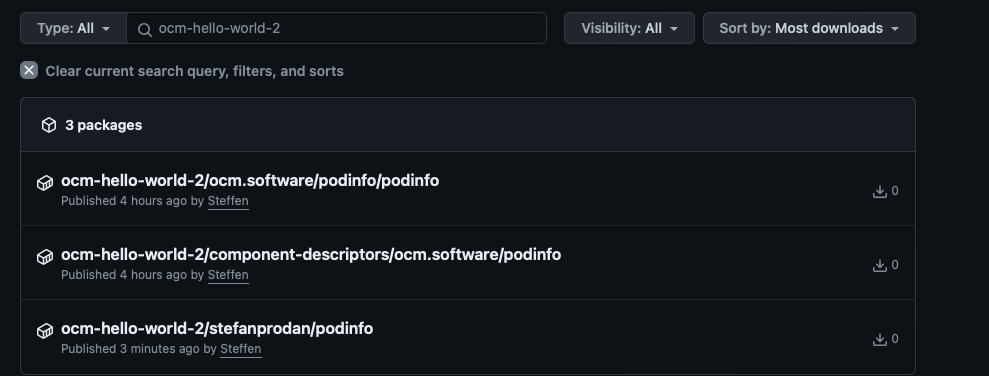
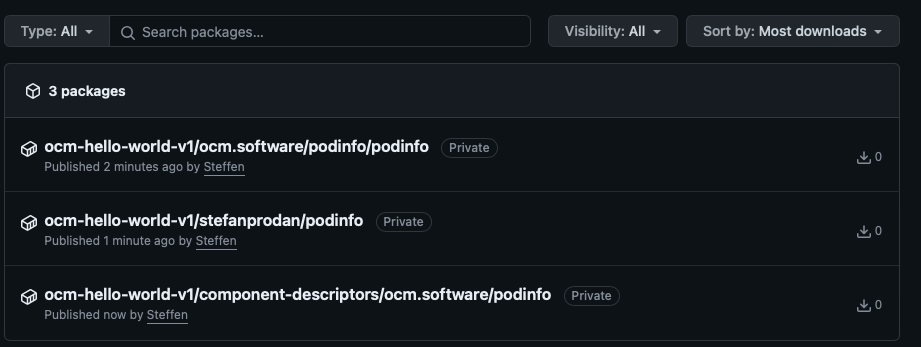
update Build & Deploy Infrastructure via Helm Charts with OCM

diff --git a/content/en/docs/guides/build-deploy-software-via-helm-charts-with-ocm-101.md b/content/en/docs/guides/build-deploy-software-via-helm-charts-with-ocm-101.md
@@ -18,7 +18,7 @@ toc: true
 
 Let's illustrate an simple "Hello World" application and show how to leverage OCM to build and deploy a Helm Chart and OCI Image on a local `kind` k8s cluster.
 As base we use the `podinfo` application. 
-All files can be found [here](https://github.com/stb1337/ocm-hello-world).
+All files can be found [here](https://github.com/stb1337/ocm-hello-world-v1).
 
 At the end of the tutorial this application consists of the following components:
 * `podinfo` as our business application
@@ -53,7 +53,8 @@ Reference a Helm Chart from:
 2. local `*.tgz` file
 3. local folder which containing Helm Chart files
 
-First we need to download and unpack the Helm Chart for `podinfo`.
+To demonstrate No. 2+3 we first we need to download and unpack the Helm Chart for `podinfo`. In a real application, this would be your own Helm Charts.
+
 This can easily be achieved with the helm CLI:
 
 ```shell
@@ -75,41 +76,47 @@ tar -czf podinfo-6.6.0.tgz podinfo
 
 ### Input Specification
 
-The corresponding input file for building the component version (`component-constructor.yaml`) will then look like this:
+The corresponding input file for building the component version ([`component-constructor.yaml`](https://github.com/stb1337/ocm-hello-world-v1/blob/main/component-constructor.yaml)) will then look like this:
 
 ```yaml
 components:
+# podinfo component
 - name: ${COMPONENT_NAME_PREFIX}/podinfo
+  labels:
+  - name: "org.opencontainers.image.source"
+    value: "https://github.com/stb1337/ocm-hello-world-v1"  
   version: ${PODINFO_VERSION}
   provider:
     name: ${PROVIDER}
   resources:
   - name: helm-chart-external
-    type: helmChart    
+    type: helmChart
+    version: ${PODINFO_VERSION}
     relation: external
     access:
       type: helm
       helmChart: podinfo:${PODINFO_CHART_VERSION}
       helmRepository: https://stefanprodan.github.io/podinfo
   - name: helm-chart-local-tgz
-    type: helmChart
-    relation: local    
+    type: helmChart    
     input:      
-      type: helm
-      path: podinfo-${PODINFO_CHART_VERSION}.tgz
+      type: helm      
+      path: podinfo-${PODINFO_CHART_VERSION}.tgz      
   - name: helm-chart-local-folder
     type: helmChart
-    relation: local    
-    input:   
+    relation: local
+    version: ${PODINFO_VERSION}
+    input:
       type: dir
-      path: ./podinfo/ 
+      path: ./podinfo/  
   - name: image
     type: ociImage
     version: ${PODINFO_VERSION}
     access:
       type: ociArtifact
       repository: ocm/ocm.software/podinfo/image
-      imageReference: ghcr.io/stefanprodan/podinfo:${PODINFO_VERSION}  
+      imageReference: ghcr.io/stefanprodan/podinfo:${PODINFO_VERSION}
+  
 ```
 
 Some frequently changing parameters have been extracted as variables. The OCM CLI uses
@@ -124,11 +131,11 @@ Note the differences between the various components:
 From the input file `component-constructor.yaml` the common transport archive can be created with the
 OCM CLI. For all variables we need to provide values. Variable values can be passed in the
 command line or stored in a file. For many variable having a values file is more convenient.
-The corresponding file `settings.yaml` may look like this:
+The corresponding file [`settings.yaml`](https://github.com/stb1337/ocm-hello-world-v1/blob/main/settings.yaml) may look like this:
 
 ```yaml
 VERSION: 0.0.1
-NAME: ocm-hello-world
+NAME: ocm-hello-world-v1
 COMPONENT_NAME_PREFIX: ocm.software
 PROVIDER: stb1337
 PODINFO_VERSION: 6.6.0
@@ -174,15 +181,17 @@ ocm transfer ctf -f <ctf-target-dir> <oci-repo-url>
 ```
 
 ```shell
-ocm transfer commontransportarchive --copy-resources --enforce --overwrite ./ocm-hello-world OCIRegistry::ghcr.io/stb1337/ocm-hello-world-2
+ocm transfer commontransportarchive --copy-resources --enforce --overwrite ./ocm-hello-world OCIRegistry::ghcr.io/stb1337/ocm-hello-world-v1
 transferring component "ocm.software/podinfo"...
   transferring version "ocm.software/podinfo:6.6.0"...
-    version "ocm.software/podinfo:6.6.0" already present -> but requires resource transport
-  ...resource 0 helm-chart-external[helmChart] (copy)
-  ...resource 1 helm-chart-local-tgz[helmChart](ocm.software/podinfo/podinfo:6.6.0) (already present)
-  ...resource 2 helm-chart-local-folder[helmChart] (already present)  
-  ...resource 3 image[ociImage](stefanprodan/podinfo:6.6.0) (copy)
+INFO[0000] trying next host - response was http.StatusNotFound  host=ghcr.io
+INFO[0001] trying next host - response was http.StatusNotFound  host=ghcr.io
+  ...resource 0 helm-chart-external[helmChart]...
+  ...resource 1 helm-chart-local-tgz[helmChart](ocm.software/podinfo/podinfo:6.6.0)...
+  ...resource 2 helm-chart-local-folder[helmChart]...  
+  ...resource 3 image[ociImage](stefanprodan/podinfo:6.6.0)...
   ...adding component version...
+
 ```
 
 Note: Be careful with the `-f` or `--overwrite` flag. This will replace existing component
@@ -192,8 +201,8 @@ you should never use this flag**! Released component versions should be immutabl
 should never be overwritten. They serve as source of truth for what the release is made of
 und should never be changed.
 
-### Package Visibility 
-Change Github Package Visibility to 'public':
+### Package 
+Navigate to the overview of your OCI repository, which should list following items:
 
 ![alt text](images/github-packages-ocm-hello-world.png)
 ## Deploying OCM Software Artifact
@@ -315,12 +324,12 @@ ComponentVersion:
 name: `ocm.software/podinfo`
 version: `6.6.0`
 
-URL of OCI registry: `ghcr.io/stb1337/ocm-hello-world-2`
+URL of OCI registry: `ghcr.io/stb1337/ocm-hello-world-v1`
 
 It is convenient to put this into an environment variable:
 
 ```shell
-export OCM_REPO=ghcr.io/stb1337/ocm-hello-world-2
+export OCM_REPO=ghcr.io/stb1337/ocm-hello-world-v1
 ```
 
 Getting all component-versions of the application with the ocm cli:
@@ -333,20 +342,22 @@ ocm get componentversion --repo OCIRegistry::${OCM_REPO} ocm.software/podinfo:6.
 ---
 component:
   componentReferences: []
-  creationTime: "2024-03-20T09:22:20Z"
+  creationTime: "2024-03-21T15:55:18Z"
   labels:
+  - name: org.opencontainers.image.source
+    value: https://github.com/stb1337/ocm-hello-world-v1
   name: ocm.software/podinfo
   provider: stb1337
   repositoryContexts:
   - baseUrl: ghcr.io
     componentNameMapping: urlPath
-    subPath: stb1337/ocm-hello-world-2
+    subPath: stb1337/ocm-hello-world-v1
     type: OCIRegistry
   resources:
   - access:
-      helmChart: podinfo:6.6.0
-      helmRepository: https://stefanprodan.github.io/podinfo
-      type: helm
+      localReference: sha256:cf9318c4944f733f8ce925ca0b818cdae638dce4107a13c3395984bb86306c4b
+      mediaType: application/vnd.cncf.helm.chart.content.v1.tar+gzip
+      type: localBlob
     digest:
       hashAlgorithm: SHA-256
       normalisationAlgorithm: genericBlobDigest/v1
@@ -356,7 +367,7 @@ component:
     type: helmChart
     version: 6.6.0
   - access:
-      imageReference: ghcr.io/stb1337/ocm-hello-world-2/ocm.software/podinfo/podinfo:6.6.0
+      imageReference: ghcr.io/stb1337/ocm-hello-world-v1/ocm.software/podinfo/podinfo:6.6.0
       type: ociArtifact
     digest:
       hashAlgorithm: SHA-256
@@ -367,32 +378,31 @@ component:
     type: helmChart
     version: 6.6.0
   - access:
-      localReference: sha256:96a7336a44369d0da90e3c3813d7fd3e3a2745283e99dd9187040ac9d849b194
+      localReference: sha256:8ff0604bfaebe6791ac4285c38a9f02771452497530367eeae49f1cf8594ca4c
       mediaType: application/x-tar
       type: localBlob
     digest:
       hashAlgorithm: SHA-256
       normalisationAlgorithm: genericBlobDigest/v1
-      value: 96a7336a44369d0da90e3c3813d7fd3e3a2745283e99dd9187040ac9d849b194
+      value: 8ff0604bfaebe6791ac4285c38a9f02771452497530367eeae49f1cf8594ca4c
     name: helm-chart-local-folder
     relation: local
     type: helmChart
     version: 6.6.0
   - access:
-      localReference: sha256:1e1f0bea2618c9a7f50c459828cf5aa66b5592c7ce9715be436cbaf70b31f17b
+      localReference: sha256:4a05cbc915a171301efdaad863d7d1bb0bc9193730767eca9385c49361956863
       mediaType: application/x-tgz
       type: localBlob
     digest:
       hashAlgorithm: SHA-256
       normalisationAlgorithm: genericBlobDigest/v1
-      value: 1e1f0bea2618c9a7f50c459828cf5aa66b5592c7ce9715be436cbaf70b31f17b
+      value: 4a05cbc915a171301efdaad863d7d1bb0bc9193730767eca9385c49361956863
     name: manifests
     relation: local
     type: dir
     version: 6.6.0
   - access:
-      imageReference: ghcr.io/stefanprodan/podinfo:6.6.0
-      repository: ocm/ocm.software/podinfo/image
+      imageReference: ghcr.io/stb1337/ocm-hello-world-v1/stefanprodan/podinfo:6.6.0
       type: ociArtifact
     digest:
       hashAlgorithm: SHA-256
@@ -414,17 +424,16 @@ With this we can drill down to the installable helm charts and the container ima
 ocm get resource --repo OCIRegistry::${OCM_REPO} ocm.software/podinfo:6.6.0 -o wide
 NAME                    VERSION IDENTITY TYPE      RELATION ACCESSTYPE  ACCESSSPEC
 helm-chart-external     6.6.0            helmChart external localBlob   {"localReference":"sha256:cf9318c4944f733f8ce925ca0b818cdae638dce4107a13c3395984bb86306c4b","mediaType":"application/vnd.cncf.helm.chart.content.v1.tar+gzip"}
-helm-chart-local-folder 6.6.0            helmChart local    localBlob   {"localReference":"sha256:96a7336a44369d0da90e3c3813d7fd3e3a2745283e99dd9187040ac9d849b194","mediaType":"application/x-tar"}
-helm-chart-local-tgz    6.6.0            helmChart local    ociArtifact {"imageReference":"ghcr.io/stb1337/ocm-hello-world-2/ocm.software/podinfo/podinfo:6.6.0"}
-image                   6.6.0            ociImage  external ociArtifact {"imageReference":"ghcr.io/stb1337/ocm-hello-world-2/stefanprodan/podinfo:6.6.0"}
+helm-chart-local-folder 6.6.0            helmChart local    localBlob   {"localReference":"sha256:8ff0604bfaebe6791ac4285c38a9f02771452497530367eeae49f1cf8594ca4c","mediaType":"application/x-tar"}
+helm-chart-local-tgz    6.6.0            helmChart local    ociArtifact {"imageReference":"ghcr.io/stb1337/ocm-hello-world-v1/ocm.software/podinfo/podinfo:6.6.0"}
+image                   6.6.0            ociImage  external ociArtifact {"imageReference":"ghcr.io/stb1337/ocm-hello-world-v1/stefanprodan/podinfo:6.6.0"}
 ```
 ### Apply k8s manifest
 
-Create file `k8s-component-version/00-pod-info-kind.yaml` with following content:
+Create file [`k8s-component-version/01-pod-info-kind.yaml`](https://github.com/stb1337/ocm-hello-world-v1/blob/main/k8s-component-version/01-pod-info-kind.yaml) with following content:
 
 ```yaml
-#k8s-component-version/00-pod-info-kind.yaml 
-apiVersion: delivery.ocm.software/v1alpha1
+#k8s-component-version/01-pod-info-kind.yaml 
 kind: ComponentVersion
 metadata:
   name: ocm-hello-world-podinfo
@@ -435,7 +444,9 @@ spec:
   references:
     expand: true
   repository:
-    url: ghcr.io/stb1337/ocm-hello-world-2   
+    url: ghcr.io/stb1337/ocm-hello-world-v1
+    secretRef:
+      name: ghcr-pull-secret
   version:
     semver: "6.6.0"
 ---
@@ -473,17 +484,18 @@ spec:
       spec: 
         chart: "podinfo"
         interval: 10s
-    values:
-      serviceAccount:
-        enabled: True
-        imagePullSecrets:
-        - name: pull-secret
+    values:      
       replicaCount: 3
       image:
-        repository: ghcr.io/stb1337/ocm-hello-world-2/stefanprodan/podinfo
+        repository: ghcr.io/stb1337/ocm-hello-world-v1/stefanprodan/podinfo
       ui:
         color: "#8F00FF"
         message: "Hello from remote referenced Helm Chart"      
+      serviceAccount:        
+        enabled: true        
+        name: "sa-podinfo-ghcr-io-1"
+        imagePullSecrets:
+        - name: pull-secret
     interval: 10s
     releaseName: "podinfo-helm-chart-external"
     targetNamespace: default
@@ -525,10 +537,15 @@ spec:
     values:
       replicaCount: 2
       image:
-        repository: ghcr.io/stb1337/ocm-hello-world-2/stefanprodan/podinfo
+        repository: ghcr.io/stb1337/ocm-hello-world-v1/stefanprodan/podinfo
       ui:
         color: "#FFC0CB"
         message: "Hello from local .tar file Helm Chart"        
+      serviceAccount:        
+        enabled: true        
+        name: "sa-podinfo-ghcr-io-2"
+        imagePullSecrets:
+        - name: pull-secret
     interval: 10s
     releaseName: "podinfo-helm-chart-local-tgz"
     targetNamespace: default    
@@ -550,10 +567,25 @@ spec:
       version: "6.6.0"
 ```
 
+Create two k8s secrets in order for OCM and k8s to pull from your private OCI registry:
+```shell
+export GITHUB_USER=.. && export GITHUB_TOKEN=ghp_.... && export GITHUB_USER_EMAIL=steffen....
+
+kubectl create secret docker-registry pull-secret -n default \
+    --docker-server=ghcr.io \
+    --docker-username=$GITHUB_USER \
+    --docker-password=$GITHUB_TOKEN \
+    --docker-email=$GITHUB_USER_EMAIL
+
+kubectl create secret generic ghcr-pull-secret -n ocm-system \
+    --from-literal=username=$GITHUB_USER \
+    --from-literal=password=$GITHUB_TOKEN
+```
+
 Apply manifest to local `kind` cluster:
 
 ```shell
-k apply -f k8s-component-version/00-pod-info-kind.yaml 
+k apply -f k8s-component-version/01-pod-info-kind.yaml 
 componentversion.delivery.ocm.software/ocm-hello-world-podinfo created
 resource.delivery.ocm.software/ocm-hello-world-podinfo-helm-chart-external created
 fluxdeployer.delivery.ocm.software/ocm-hello-world-podinfo-helm-chart-external created
